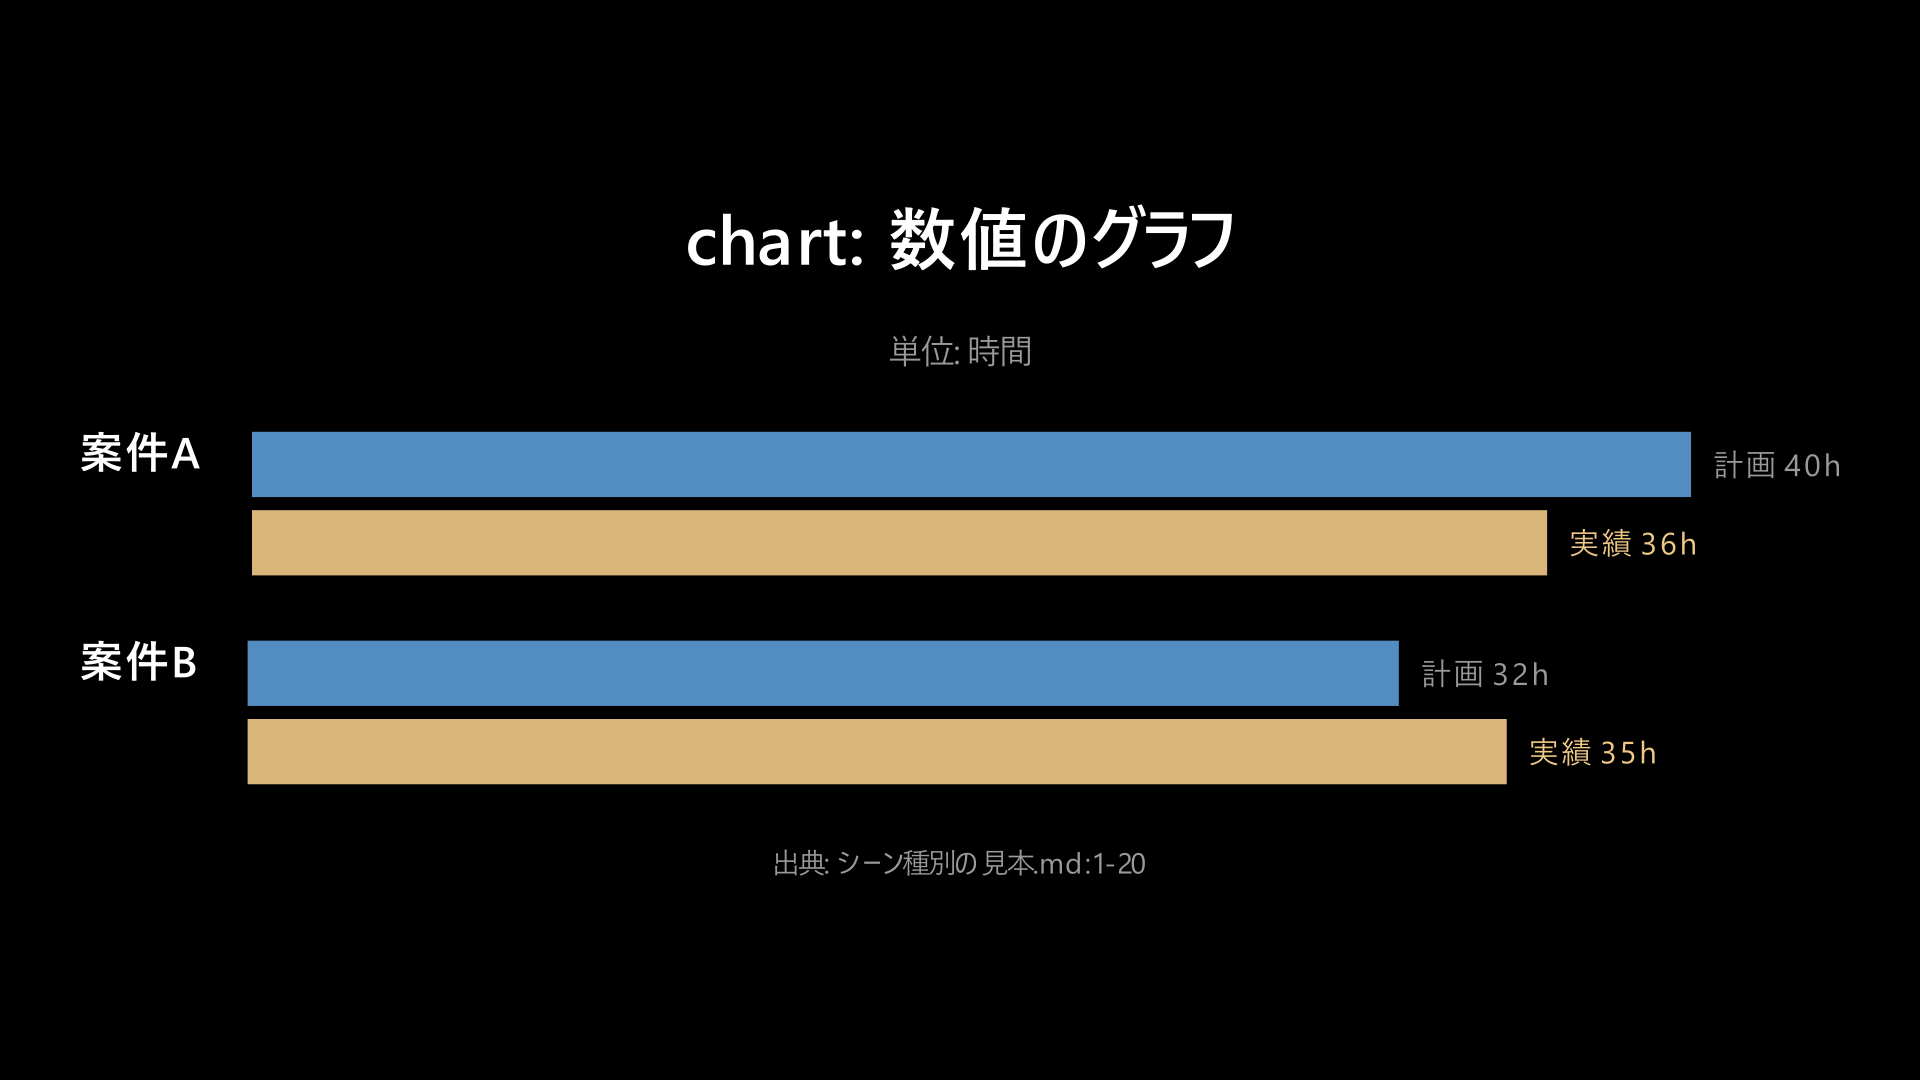
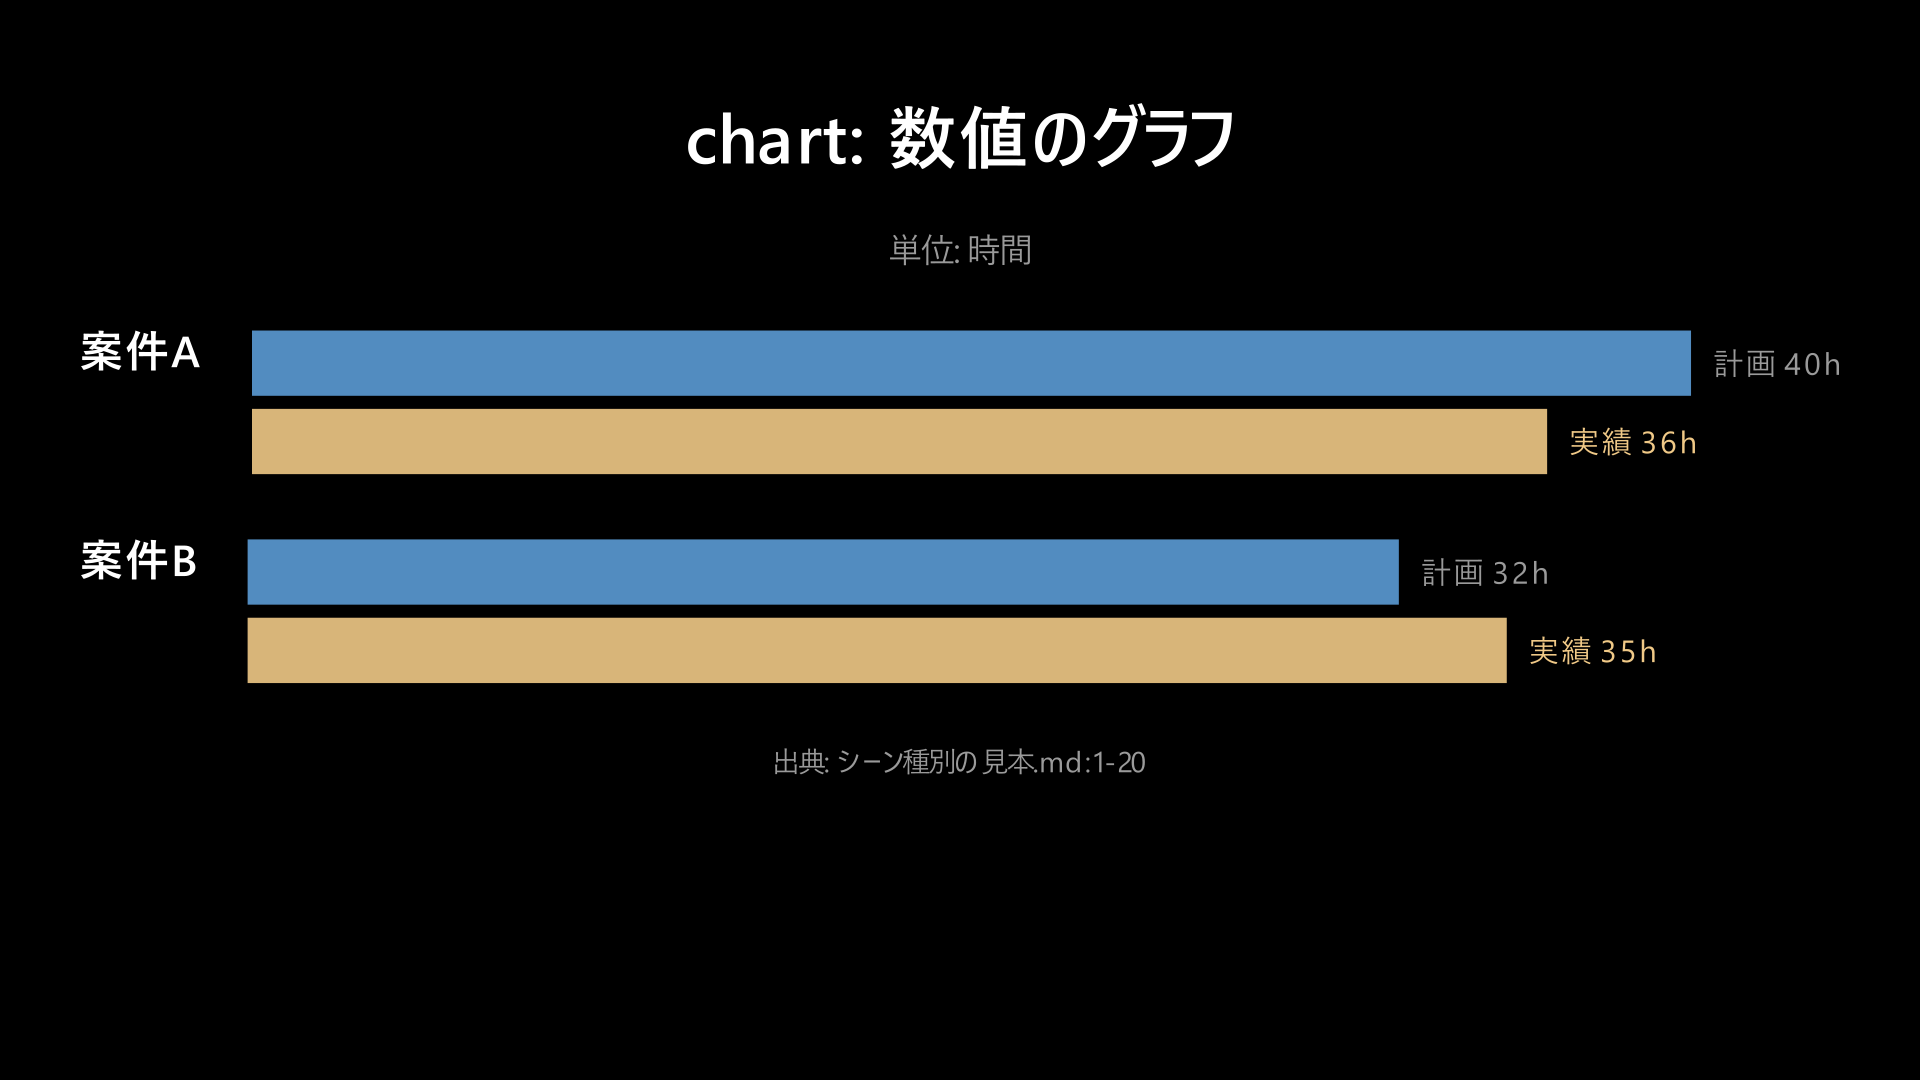
fix(video): 焼き込みテロップの帯に図を入れない
実際に動画を1本作ったら、折れ線のシーンで**出典フッターと目盛りラベルが
テロップの下に完全に隠れていた**。`fit_to_frame` は上下対称の余白しか見て
おらず、下端の一定割合がテロップに占められることを知らなかった。

事実を出典に紐づけるのがこのシステムの根幹なので、「隠れているが存在は
する」は成立しない。出典が見えないのは、無いのと同じ。

帯の高さは理屈ではなく実測（フォントサイズを決めたときと同じやり方）:
黒一色の動画へ2行のテロップを焼き、文字の上端を測った。

    16:9  1920x1080  下端から 258px = 0.2389
    9:16  1080x1920  下端から 411px = 0.2141

少し広く 0.25 / 0.23 を宣言する。判断（`caption_band_height` /
`content_bounds` / `fit_box`）は manim 非依存の `layout.py` に置き、
アプリ側の `CAPTION_BAND_RATIO` と食い違わないことをテストで固定する。

図は帯を除いた領域の中央へ置く。フレーム中央ではない。
全テンプレートが `fit_to_frame` を通るので、ギャラリー17枚も作り直した。

diff --git a/tests/video/test_caption_safe_area.py b/tests/video/test_caption_safe_area.py
@@ -1,0 +1,126 @@
+"""焼き込みテロップの帯を、図が踏まないこと。
+
+実際に動画を1本作って見つかった不備。`chart`（折れ線）のシーンで、
+**出典フッターと目盛りラベルがテロップの下に完全に隠れていた**。
+`fit_to_frame` はフレーム全体に収めるだけで、下端の一定割合がテロップに
+占められることを知らなかった。
+
+出典を画面に出すのはこのシステムの根幹（事実は必ず出典に紐づく）なので、
+「隠れているが存在はする」は成立しない。
+
+帯の高さは理屈ではなく**実測**で決めている（フォントサイズを決めたときと同じ）:
+
+    黒一色の動画へ2行のテロップを焼き、文字の上端を測る
+    16:9  1920x1080  下端から 258px = 0.2389
+    9:16  1080x1920  下端から 411px = 0.2141
+"""
+
+from __future__ import annotations
+
+import pytest
+
+ASPECTS = ("16:9", "9:16")
+
+#: 実測値（上のドキュメンテーション参照）。定数はこれ以上でなければならない。
+MEASURED_BAND_RATIO = {"16:9": 0.2389, "9:16": 0.2141}
+
+
+@pytest.fixture(scope="module")
+def layout_module():
+    from templates import layout
+
+    return layout
+
+
+@pytest.mark.parametrize("aspect", ASPECTS)
+def test_the_band_covers_what_was_measured(layout_module, aspect: str) -> None:
+    """実測より狭い帯を宣言しない（狭いと図がテロップに潜る）。"""
+    _, height = layout_module.frame_size(aspect)
+    ratio = layout_module.caption_band_height(aspect) / height
+    assert ratio >= MEASURED_BAND_RATIO[aspect]
+
+
+@pytest.mark.parametrize("aspect", ASPECTS)
+def test_the_band_does_not_eat_the_whole_frame(layout_module, aspect: str) -> None:
+    _, height = layout_module.frame_size(aspect)
+    assert layout_module.caption_band_height(aspect) < height / 2
+
+
+@pytest.mark.parametrize("aspect", ASPECTS)
+def test_content_bounds_sit_above_the_band(layout_module, aspect: str) -> None:
+    _, height = layout_module.frame_size(aspect)
+    bottom, top = layout_module.content_bounds(aspect)
+    assert bottom >= -height / 2 + layout_module.caption_band_height(aspect)
+    assert top <= height / 2
+    assert bottom < top
+
+
+@pytest.mark.parametrize("aspect", ASPECTS)
+def test_the_content_area_is_still_usable(layout_module, aspect: str) -> None:
+    """帯を引いても図を置く高さが残ること（縦型で潰れやすい）。"""
+    _, height = layout_module.frame_size(aspect)
+    bottom, top = layout_module.content_bounds(aspect)
+    assert (top - bottom) >= height * 0.5
+
+
+@pytest.mark.parametrize("aspect", ASPECTS)
+def test_the_band_ratio_matches_the_burn_in_style(aspect: str) -> None:
+    """帯の定数と、実際に焼く字幕の指定が同じ前提から出ていること。
+
+    `BURN_IN_FONT_SIZE` を変えたのに帯を直し忘れると、また図が潜る。
+    """
+    from abist_kb.application.video.subtitles import caption_band_ratio
+    from templates import layout
+
+    _, height = layout.frame_size(aspect)
+    assert layout.caption_band_height(aspect) / height == pytest.approx(
+        caption_band_ratio(aspect), rel=1e-6
+    )
+
+
+@pytest.mark.parametrize("aspect", ASPECTS)
+def test_the_declared_ratio_tracks_the_measurement(aspect: str) -> None:
+    from abist_kb.application.video.subtitles import caption_band_ratio
+
+    assert caption_band_ratio(aspect) >= MEASURED_BAND_RATIO[aspect]
+    assert caption_band_ratio(aspect) <= MEASURED_BAND_RATIO[aspect] + 0.05
+
+
+# -- 収め方（縮小率と縦位置） ---------------------------------------------------------
+
+
+@pytest.mark.parametrize("aspect", ASPECTS)
+def test_a_small_figure_is_centred_in_the_content_area(layout_module, aspect: str) -> None:
+    """帯を避けた領域の中央へ置く。フレーム中央ではない。"""
+    bottom, top = layout_module.content_bounds(aspect)
+    scale, center_y = layout_module.fit_box((1.0, 1.0), aspect)
+    assert scale == 1.0, "小さい図は拡大しない"
+    assert center_y == pytest.approx((bottom + top) / 2)
+
+
+@pytest.mark.parametrize("aspect", ASPECTS)
+def test_a_tall_figure_is_shrunk_to_the_content_area(layout_module, aspect: str) -> None:
+    width, height = layout_module.frame_size(aspect)
+    bottom, top = layout_module.content_bounds(aspect)
+    scale, center_y = layout_module.fit_box((1.0, height), aspect)
+    assert height * scale <= (top - bottom) + 1e-9
+    assert (center_y - height * scale / 2) >= bottom - 1e-9
+
+
+@pytest.mark.parametrize("aspect", ASPECTS)
+def test_a_wide_figure_is_shrunk_to_the_safe_width(layout_module, aspect: str) -> None:
+    width, _ = layout_module.frame_size(aspect)
+    safe_width, _ = layout_module.safe_area(aspect)
+    scale, _ = layout_module.fit_box((width, 0.5), aspect)
+    assert width * scale <= safe_width + 1e-9
+
+
+@pytest.mark.parametrize("aspect", ASPECTS)
+def test_nothing_ever_lands_in_the_caption_band(layout_module, aspect: str) -> None:
+    """どんな寸法の図でも、下端が帯へ入らないこと。"""
+    width, height = layout_module.frame_size(aspect)
+    band_top = -height / 2 + layout_module.caption_band_height(aspect)
+    for w in (0.5, width / 2, width, width * 2):
+        for h in (0.5, height / 2, height, height * 2):
+            scale, center_y = layout_module.fit_box((w, h), aspect)
+            assert center_y - h * scale / 2 >= band_top - 1e-9, (w, h)

diff --git a/src/abist_kb/application/video/subtitles.py b/src/abist_kb/application/video/subtitles.py
@@ -90,8 +90,34 @@ def split_sentences(text: str) -> list[str]:
     return [p.strip() for p in parts if p.strip()]
 
 
+def _is_word_char(char: str) -> bool:
+    """行の途中で割ってはいけない字（半角英数字と語中の記号）。
+
+    `tools/visualize/templates/layout._is_ascii_word_char` の写し（別 venv のため
+    import できない）。両者が食い違わないことはテストで固定している。
+    """
+    return char.isascii() and (char.isalnum() or char in "_-.")
+
+
+def _break_before_word(current: str, next_char: str) -> tuple[str, str]:
+    """語の途中で折り返そうとしているとき、語の直前で切り直す。
+
+    戻り値は `(前行, 次行へ送る断片)`。切り直す必要が無ければ `("", "")`。
+    「2179点」が「2」と「179点」に割れると、読み手には別の数として見える。
+    """
+    if not current or not _is_word_char(next_char) or not _is_word_char(current[-1]):
+        return "", ""
+    index = len(current)
+    while index > 0 and _is_word_char(current[index - 1]):
+        index -= 1
+    if index == 0:
+        # 行全体が1つの長い語。切り直すと無限に後退するのでそのまま折る。
+        return "", ""
+    return current[:index], current[index:]
+
+
 def wrap_line(text: str, max_chars: int) -> list[str]:
-    """全角換算 `max_chars` で折り返す（行頭禁則は追い出し）。"""
+    """全角換算 `max_chars` で折り返す（行頭禁則は追い出し、語の途中では割らない）。"""
     budget = max_chars * 2  # 全角1文字=2カラム
     lines: list[str] = []
     current = ""
@@ -102,7 +128,11 @@ def wrap_line(text: str, max_chars: int) -> list[str]:
             current += char
             width += char_width
             continue
-        if char in _NO_LINE_START and len(current) > 1:
+        head, carry = _break_before_word(current, char)
+        if head:
+            lines.append(head)
+            current = carry + char
+        elif char in _NO_LINE_START and len(current) > 1:
             lines.append(current[:-1])
             current = current[-1] + char
         else:
@@ -114,13 +144,35 @@ def wrap_line(text: str, max_chars: int) -> list[str]:
     return lines or [""]
 
 
+def _balanced_lines(sentence: str, max_chars: int, max_lines: int) -> list[str]:
+    """キューをまたぐ文を、端数の出ない行数へ均す。
+
+    素直に折り返すと最後のキューに1行だけ残ることがあり、「と。」のような
+    2文字の字幕が数秒間ぽつんと出る。行数が `max_lines` で割り切れる中で
+    **最も広い幅**を選び直す（幅は宣言値を超えない＝読みやすさは落ちない）。
+    """
+    lines = wrap_line(sentence, max_chars)
+    if len(lines) <= max_lines:
+        return lines
+    limit = -(-len(lines) // max_lines) * max_lines  # 切り上げてキューを埋める行数
+
+    # 全体を行数で割った幅から始める。行数を割り切れるようにするだけでは足りず、
+    # 「と。」だけの行が残る。**1行の長さを均す**ところまでやる。
+    start = max(1, -(-_display_width(sentence) // (limit * 2)))
+    for width in range(start, max_chars + 1):
+        candidate = wrap_line(sentence, width)
+        if len(candidate) <= limit:
+            return candidate
+    return lines
+
+
 def chunk_narration(
     text: str, *, max_chars: int = DEFAULT_MAX_CHARS_PER_LINE, max_lines: int = DEFAULT_MAX_LINES
 ) -> list[list[str]]:
     """ナレーションを「1キュー分の行の並び」へ分ける。"""
     cues: list[list[str]] = []
     for sentence in split_sentences(text):
-        lines = wrap_line(sentence, max_chars)
+        lines = _balanced_lines(sentence, max_chars, max_lines)
         for start in range(0, len(lines), max_lines):
             cues.append(lines[start : start + max_lines])
     return cues
@@ -239,6 +291,22 @@ def write_subtitles(
     return {"srt": srt, "vtt": vtt}
 
 
+#: 焼き込みテロップが画面下端から占める割合。**実測値**（黒一色の動画へ2行の
+#: テロップを焼き、文字の上端を測った）:
+#:
+#:     16:9  1920x1080  下端から 258px = 0.2389
+#:     9:16  1080x1920  下端から 411px = 0.2141
+#:
+#: 少し広く宣言して余裕を持たせる。`tools/visualize/templates/layout
+#: .CAPTION_BAND_RATIO` が写しを持ち、食い違わないことをテストで固定している。
+CAPTION_BAND_RATIO: dict[str, float] = {"16:9": 0.25, "9:16": 0.23}
+
+
+def caption_band_ratio(aspect_ratio: str) -> float:
+    """テロップが占める画面下端からの割合。図はここへ入ってはいけない。"""
+    return CAPTION_BAND_RATIO.get(aspect_ratio, CAPTION_BAND_RATIO["16:9"])
+
+
 def estimated_caption_width_px(aspect_ratio: str) -> float:
     """1行を最大文字数まで詰めたときの、焼き込み後の実描画幅（画素）。
 
@@ -286,6 +354,8 @@ def burn_in_filter(
 
 __all__ = [
     "BURN_IN_FONT_SIZE",
+    "CAPTION_BAND_RATIO",
+    "caption_band_ratio",
     "BURN_IN_MARGIN_V",
     "BURN_IN_OUTLINE",
     "DEFAULT_MAX_CHARS_PER_LINE",

diff --git a/tools/visualize/templates/layout.py b/tools/visualize/templates/layout.py
@@ -331,6 +331,29 @@ def safe_area(aspect_ratio: str) -> tuple[float, float]:
     return width - SAFE_MARGIN_X * 2, height - SAFE_MARGIN_Y * 2
 
 
+#: 焼き込みテロップが画面下端から占める割合。`abist_kb.application.video.subtitles
+#: .CAPTION_BAND_RATIO` の写し(別 venv のため import できない)。**実測値**であって
+#: 理論値ではない —— 黒一色の動画へ2行のテロップを焼き、文字の上端を測った
+#: (16:9 は 1080px 中 258px、9:16 は 1920px 中 411px)。少しだけ広く取って余裕を持つ。
+CAPTION_BAND_RATIO: dict[str, float] = {"16:9": 0.25, "9:16": 0.23}
+
+
+def caption_band_height(aspect_ratio: str) -> float:
+    """テロップが占める帯の高さ(フレーム単位)。**ここに図を置かない。**
+
+    出典フッターがこの帯に入ると、画面上は出典が消える。事実を出典に紐づける
+    のがこのシステムの根幹なので、隠れているのは無いのと同じ。
+    """
+    _, height = frame_size(aspect_ratio)
+    return height * CAPTION_BAND_RATIO.get(aspect_ratio, CAPTION_BAND_RATIO["16:9"])
+
+
+def content_bounds(aspect_ratio: str) -> tuple[float, float]:
+    """図を置いてよい範囲の (下端, 上端)。下はテロップ帯、上はセーフマージン。"""
+    _, height = frame_size(aspect_ratio)
+    return -height / 2 + caption_band_height(aspect_ratio), height / 2 - SAFE_MARGIN_Y
+
+
 #: 折れ線の上下に取る余白(値域に対する割合)。
 LINE_CHART_PADDING = 0.12
 #: 値域が 0 からこの割合の内側に収まっていれば、0 起点のまま描く。
@@ -389,6 +412,29 @@ def _round_up(value: float, span: float) -> float:
 
     step = _nice_step(span)
     return float(f"{math.ceil(value / step) * step:.10g}")
+
+
+def fit_box(
+    size: tuple[float, float], aspect_ratio: str, *, margin_x: float = SAFE_MARGIN_X
+) -> tuple[float, float]:
+    """図を安全域へ収めるための `(縮小率, 中心の y)` を返す。
+
+    縮小はするが**拡大はしない**(小さい図を引き伸ばすと粗が目立つ)。縦位置は
+    フレーム中央ではなく**テロップ帯を除いた領域の中央**。ここを間違えると、
+    図の下端(たいてい出典フッター)がテロップに潜る。
+    """
+    width, height = size
+    _, frame_h = frame_size(aspect_ratio)
+    max_width = frame_size(aspect_ratio)[0] - margin_x * 2
+    bottom, top = content_bounds(aspect_ratio)
+    max_height = top - bottom
+
+    scale = 1.0
+    if width > 0 and width > max_width:
+        scale = max_width / width
+    if height > 0 and height * scale > max_height:
+        scale = max_height / height
+    return scale, (bottom + top) / 2
 
 
 def subtitle_max_chars(aspect_ratio: str) -> int:

diff --git a/tools/visualize/templates/base.py b/tools/visualize/templates/base.py
@@ -9,7 +9,7 @@ import functools
 import os
 from dataclasses import replace
 
-from manim import DOWN, LEFT, Text, VGroup, config
+from manim import DOWN, LEFT, UP, Text, VGroup, config
 
 from templates.layout import wrap_cjk
 from templates.theme import DEFAULT_THEME, Theme, accent_for, get_theme
@@ -159,13 +159,20 @@ def scale_font(base_size: float, count: int, *, soft: int, hard: int) -> float:
 
 
 def fit_to_frame(group: VGroup, margin: float = 0.6) -> VGroup:
-    """フレームからはみ出す場合だけ縮小する（拡大はしない）"""
-    max_width = config.frame_width - margin * 2
-    max_height = config.frame_height - margin * 2
-    if group.width > max_width:
-        group.scale_to_fit_width(max_width)
-    if group.height > max_height:
-        group.scale_to_fit_height(max_height)
+    """安全域へ収める（縮小はするが拡大はしない）。
+
+    **画面下端の一定割合は焼き込みテロップのもの**なので、図はそこへ入れない。
+    帯の高さと縦位置の計算は `layout.fit_box`（manim 非依存・テスト済み）が持つ。
+    フレーム中央に置くと、図の下端＝出典フッターがテロップの下へ潜って
+    画面から消える。出典が見えないのは、無いのと同じ。
+    """
+    from templates.layout import fit_box
+
+    aspect = "9:16" if is_portrait() else "16:9"
+    scale, center_y = fit_box((float(group.width), float(group.height)), aspect, margin_x=margin)
+    if scale < 1.0:
+        group.scale(scale)
+    group.shift(UP * (center_y - group.get_center()[1]))
     return group
 
 
